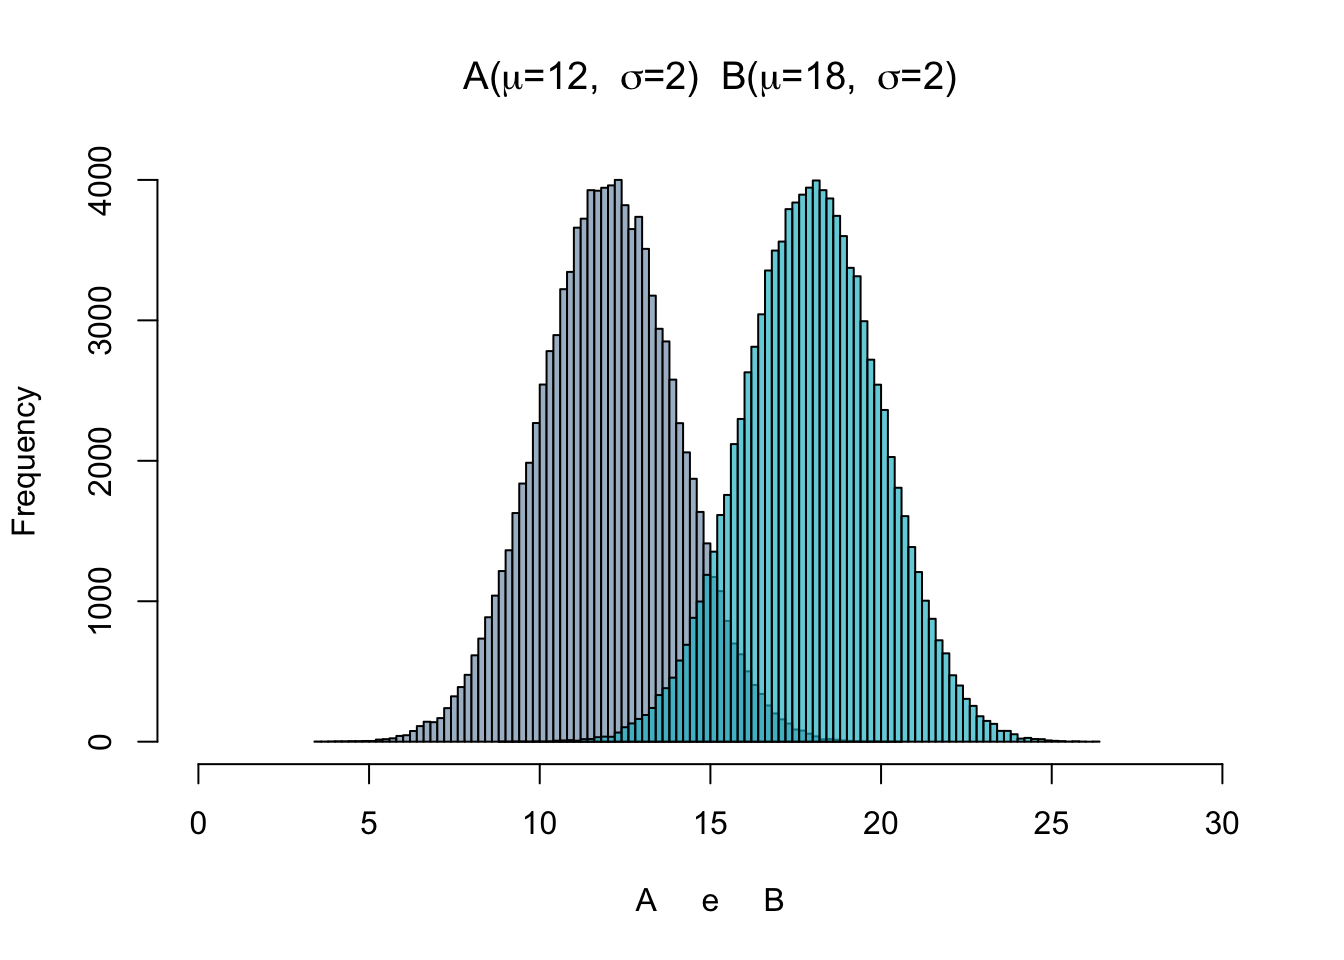
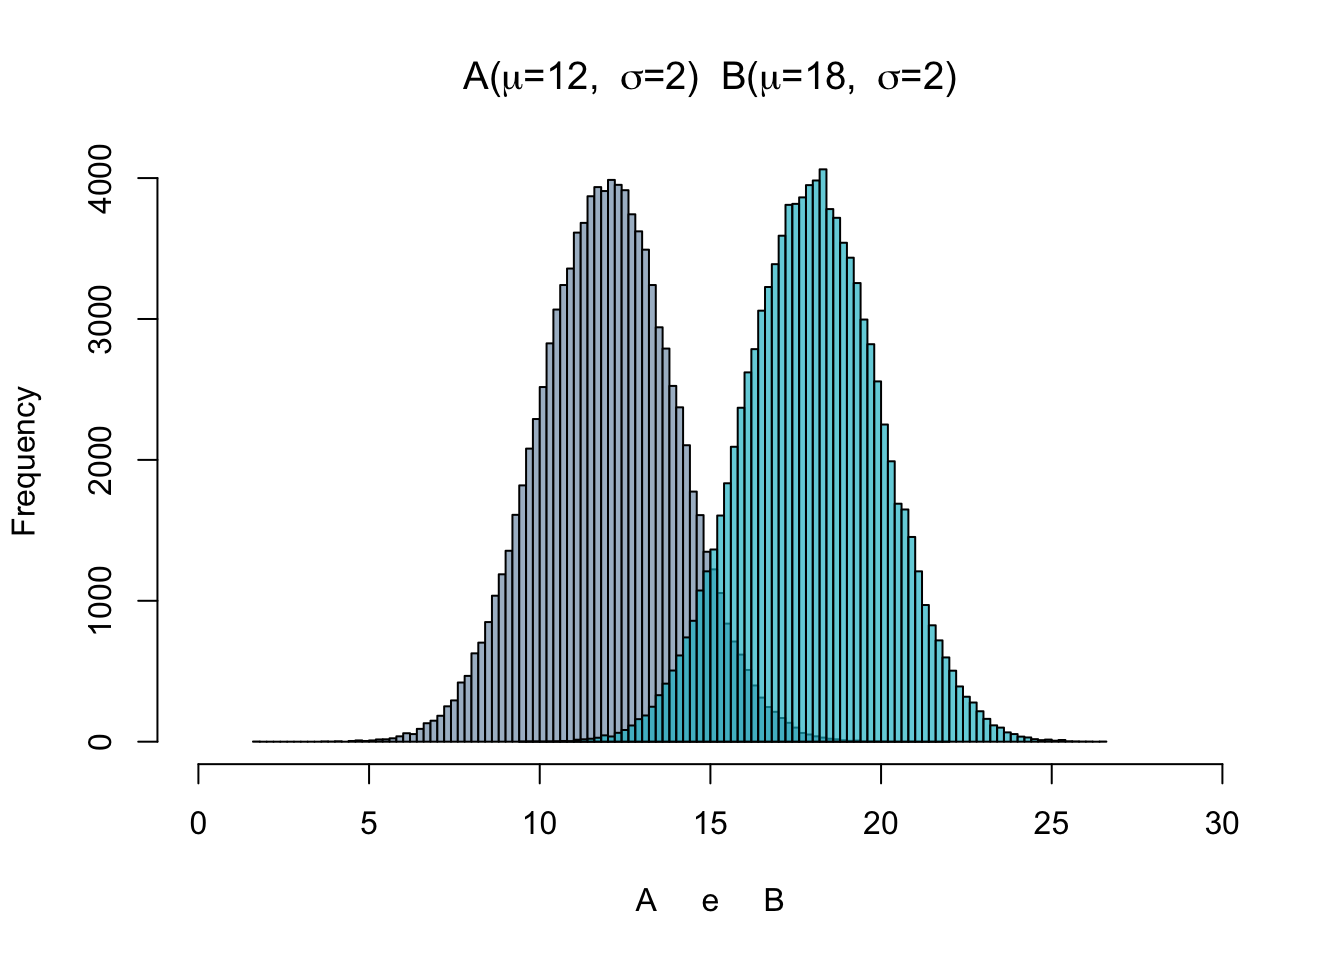
fix: linkedin urls

diff --git a/docs/machine_learning.html b/docs/machine_learning.html
@@ -2259,7 +2259,7 @@ dbl (7): passengerid, survived, pclass, age, sibsp, parch, fare
 <div class="cell">
 <div class="sourceCode cell-code" id="cb115"><pre class="sourceCode r code-with-copy"><code class="sourceCode r"><span id="cb115-1"><a href="#cb115-1" aria-hidden="true" tabindex="-1"></a>t2<span class="sc">-</span>t1</span></code><button title="Copy to Clipboard" class="code-copy-button"><i class="bi"></i></button></pre></div>
 <div class="cell-output cell-output-stdout">
-<pre><code>Time difference of 0.03012991 secs</code></pre>
+<pre><code>Time difference of 0.03437185 secs</code></pre>
 </div>
 </div>
 <p>Veja que o pacote <code>neuralnet</code> nos permite também aumentar o número de neurônios e de <em>hidden layers</em>. Veja como fica:</p>
@@ -2294,7 +2294,7 @@ dbl (7): passengerid, survived, pclass, age, sibsp, parch, fare
 <div class="cell">
 <div class="sourceCode cell-code" id="cb118"><pre class="sourceCode r code-with-copy"><code class="sourceCode r"><span id="cb118-1"><a href="#cb118-1" aria-hidden="true" tabindex="-1"></a>t4<span class="sc">-</span>t3</span></code><button title="Copy to Clipboard" class="code-copy-button"><i class="bi"></i></button></pre></div>
 <div class="cell-output cell-output-stdout">
-<pre><code>Time difference of 7.209231 secs</code></pre>
+<pre><code>Time difference of 7.260299 secs</code></pre>
 </div>
 </div>
 </section>

diff --git a/docs/index.html b/docs/index.html
@@ -208,7 +208,7 @@ ul.task-list li input[type="checkbox"] {
 <p>Seja bem-vindo(a) ao “O Manual do Cientista de Dados”. Este projeto é uma jornada contínua para criar um recurso acessível e gratuito para todos que desejam explorar o fascinante mundo da ciência de dados.</p>
 <p>Sou Wlademir Ribeiro Prates, Cientista de Dados Senior e PhD em Finanças pela UFSC. Ao longo da minha carreira, tive a oportunidade de trabalhar em diversas empresas, tanto em consultoria quanto integrando times de dados em grandes organizações, no Brasil e no exterior. Essa experiência me motivou a compartilhar conhecimento e contribuir para o crescimento da comunidade de ciência de dados.</p>
 <p>Este livro é um esforço colaborativo, e sua contribuição é essencial. Sinta-se à vontade para participar, seja através de sugestões, correções ou novas ideias. Juntos, podemos construir um material de alta qualidade que beneficie a todos.</p>
-<p>Acompanhe o desenvolvimento do livro e acesse a versão mais recente em <a href="https://wrprates.github.io/o-manual-do-cientista-de-dados/">O Manual do Cientista de Dados</a>. Vamos nos conectar e trocar experiências nas redes sociais: <a href="https://www.linkedin.com/in/wrprates/">LinkedIn</a> e <a href="https://instagram.com/datamundo.cientista/">Instagram</a>.</p>
+<p>Acompanhe o desenvolvimento do livro e acesse a versão mais recente em <a href="https://wrprates.github.io/o-manual-do-cientista-de-dados/">O Manual do Cientista de Dados</a>. Vamos nos conectar e trocar experiências nas redes sociais: <a href="https://www.linkedin.com/in/wlademir-ribeiro-prates/">LinkedIn</a> e <a href="https://instagram.com/datamundo.cientista/">Instagram</a>.</p>
 <p>Agradeço seu interesse e apoio. Espero que este livro seja uma fonte valiosa de aprendizado e inspiração para sua jornada na ciência de dados.</p>
 
 

diff --git a/README.md b/README.md
@@ -7,7 +7,7 @@ Bem-vindo ao repositório do "O Manual do Cientista de Dados". Este projeto é u
 Wlademir Ribeiro Prates é Cientista de Dados Senior, PhD em Finanças pela Universidade Federal de Santa Catarina (UFSC), e já atuou em diversas empresas, tanto com projetos de consultoria quanto sendo parte do time de dados de grandes organizações no Brasil e também no exterior.
 
 Vamos nos conhecer melhor nas redes sociais:
-- [LinkedIn](https://www.linkedin.com/in/wrprates/)
+- [LinkedIn](https://www.linkedin.com/in/wlademir-ribeiro-prates/)
 - [Instagram](https://instagram.com/datamundo.cientista/).
 
 ## Acesso ao Livro